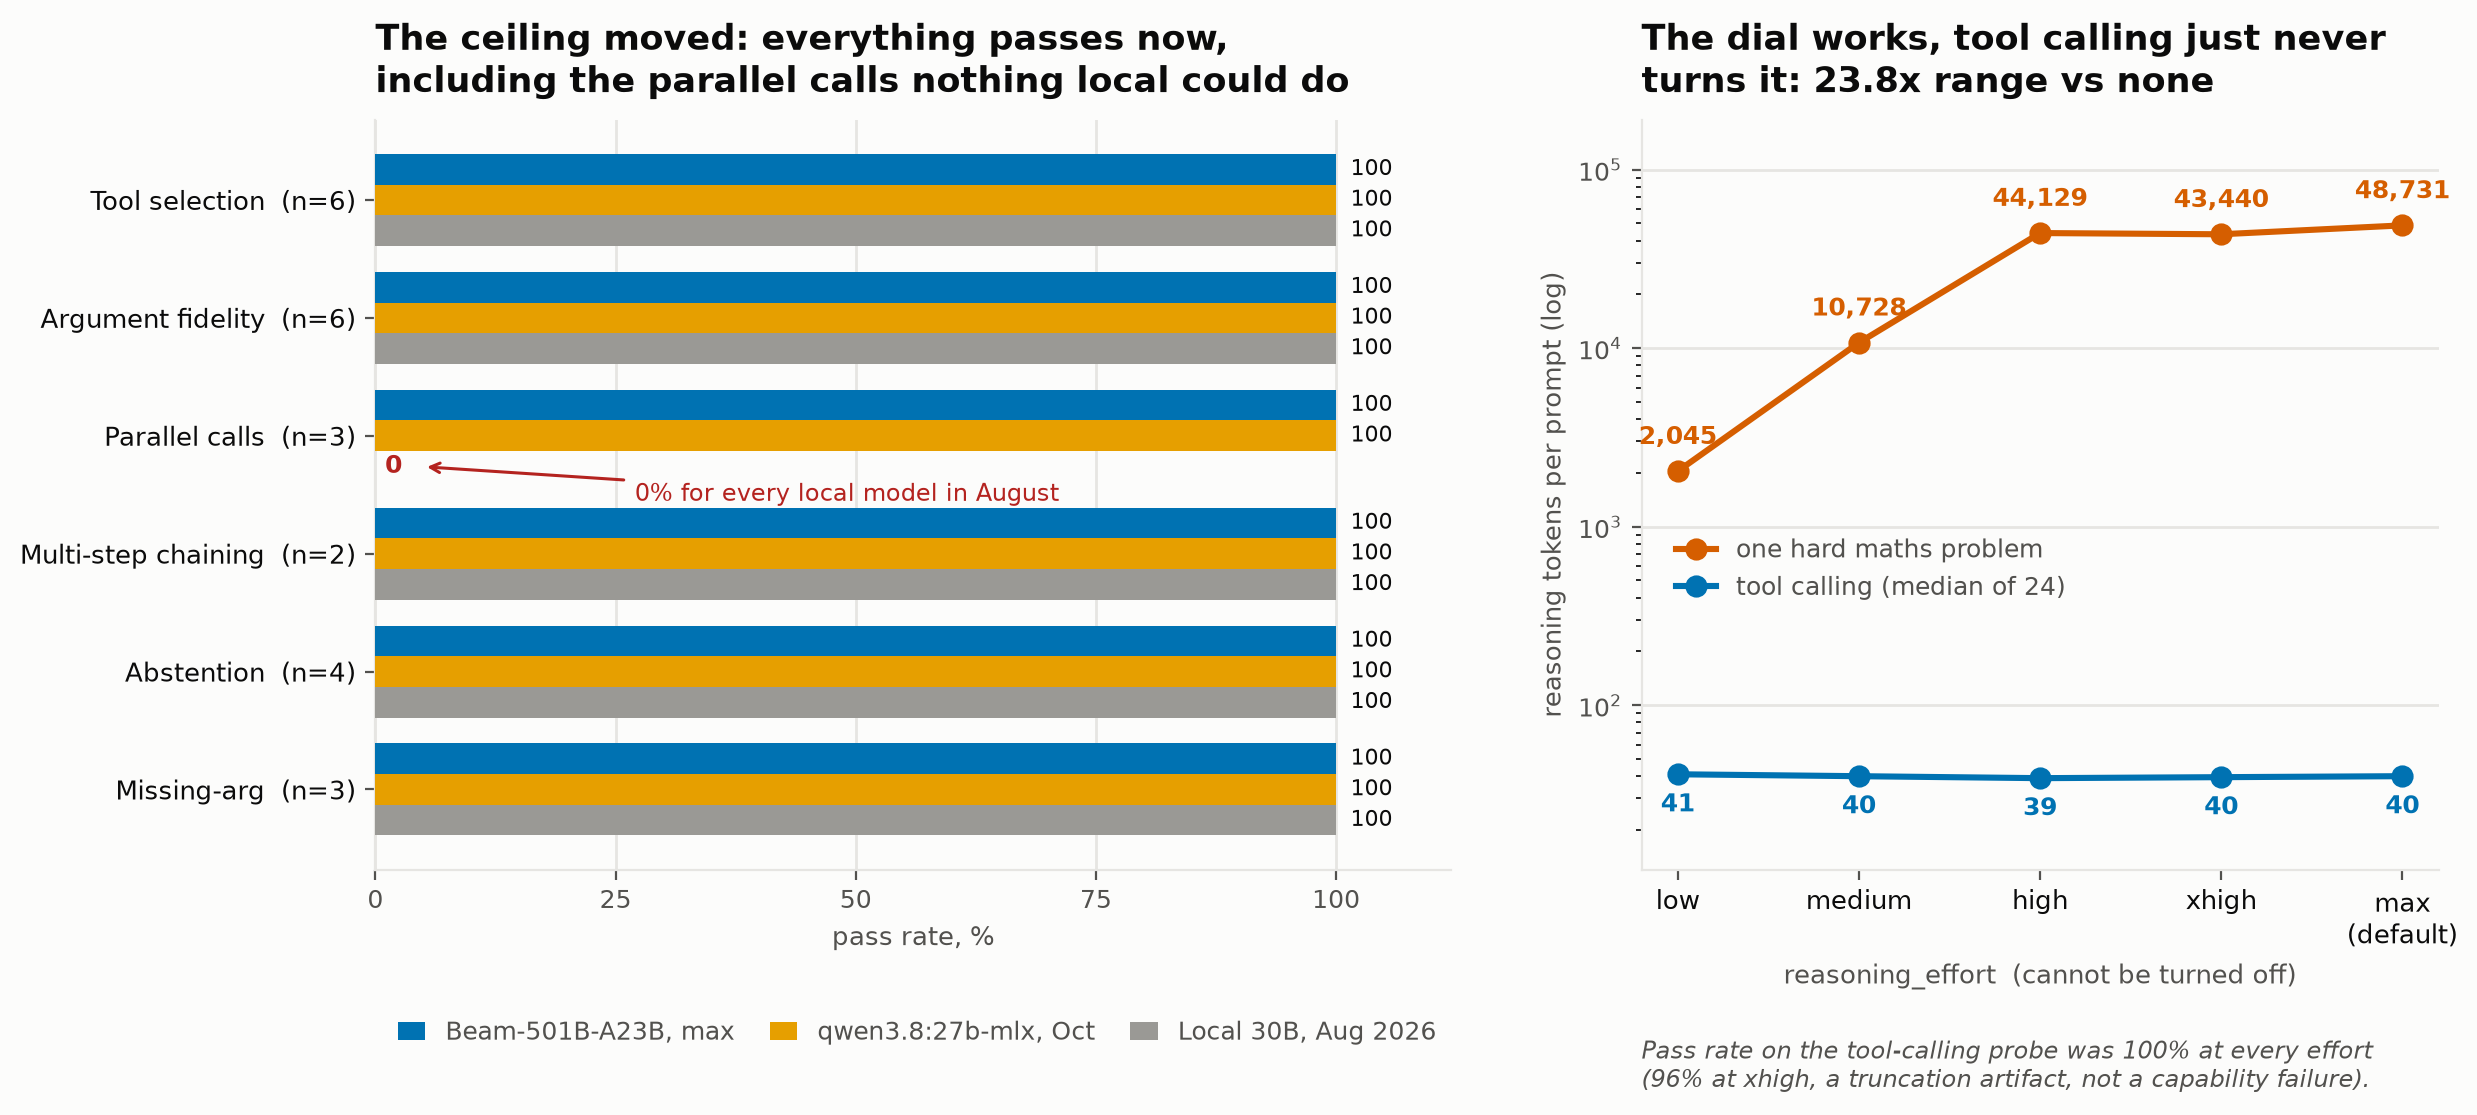
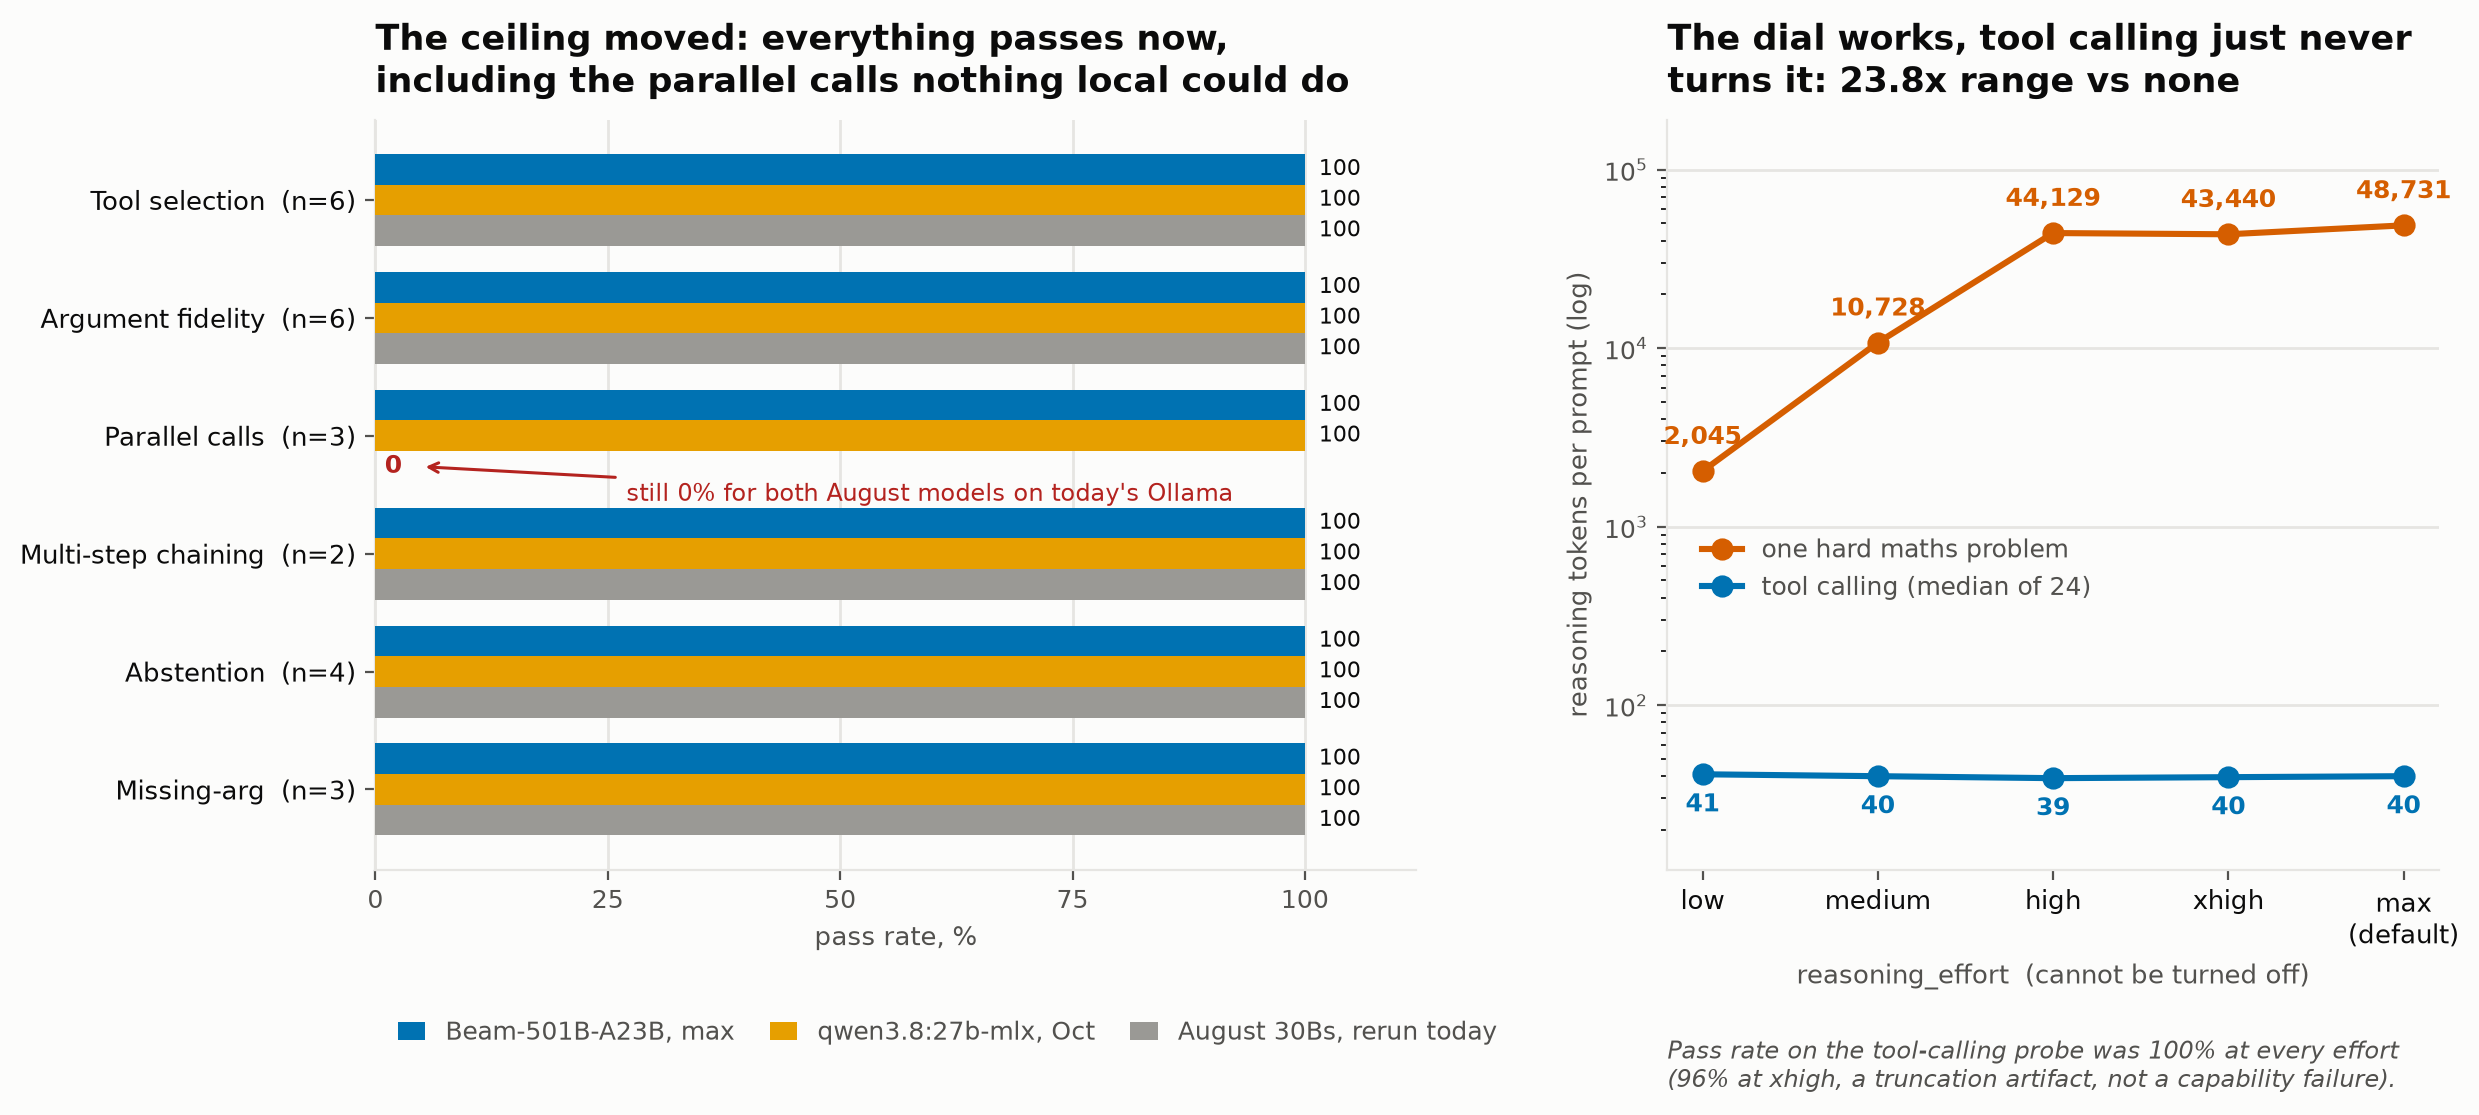
Rerun the August models on current Ollama to rule out a version confound
"The parallel-call ceiling is gone" compared qwen3.8 on Ollama 0.40.2
against the August models on 0.32.9, so better templates or tool parsing
could have produced the improvement. Reran nemotron-3.5-lightning and
muse-glimmer (same nvfp4 builds) through the same harness on 0.40.2.

With thinking on, both still score 0/3 on parallel calls while qwen3.8
scores 3/3 through the identical pipeline, so the ceiling is model-side.
muse-glimmer with thinking off now passes one parallel case (stable over
three reruns), which can't be attributed to Ollama versus the rebuilt
prompts; the post says so.

The chart's grey bars are now the rerun rather than quoted August numbers,
and the methods notes add the precision and tool-parser asymmetries that
favour the API arm.

Claude-Session: https://claude.ai/code/session_013ByiJugc862WAFDBENAA5q

diff --git a/src/content/experiments/beam-reasoning-effort.md b/src/content/experiments/beam-reasoning-effort.md
@@ -4,7 +4,7 @@ finding: "Reflection's Beam-501B-A23B makes reasoning mandatory and exposes five
 track: "local-probes"
 date: 2026-10-12
 chart: "beam-reasoning-effort-chart.png"
-chartAlt: "Two panels. Left, pass rate per category for three systems: the best local 30B from August 2026, qwen3.8:27b-mlx, and Beam-501B-A23B at max effort. Every bar is at 100 except the August local 30B on parallel calls, which is 0. Right, reasoning tokens per prompt on a log scale against Beam's five effort levels, two lines. The tool-calling line is flat at 41, 40, 39, 40, 40. The hard maths problem line climbs steeply from 2,045 at low to 10,728 at medium, then 44,129, 43,440 and 48,731 at high, xhigh and max."
+chartAlt: "Two panels. Left, pass rate per category for three systems: the two August 30B models rerun today with thinking on, qwen3.8:27b-mlx, and Beam-501B-A23B at max effort, all through the same harness. Every bar is at 100 except the August models on parallel calls, which are still 0. Right, reasoning tokens per prompt on a log scale against Beam's five effort levels, two lines. The tool-calling line is flat at 41, 40, 39, 40, 40. The hard maths problem line climbs steeply from 2,045 at low to 10,728 at medium, then 44,129, 43,440 and 48,731 at high, xhigh and max."
 tools: ["Beam-501B-A23B", "qwen3.8:27b-mlx", "Reflection API"]
 order: 52
 draft: false
@@ -82,9 +82,13 @@ Everything passes.
 | Beam, xhigh | 6/6 | 5/6\* | 3/3 | 2/2 | 4/4 | 3/3 | **23/24** |
 | Beam, max (default) | 6/6 | 6/6 | 3/3 | 2/2 | 4/4 | 3/3 | **24/24** |
 | qwen3.8:27b-mlx | 6/6 | 6/6 | 3/3 | 2/2 | 4/4 | 3/3 | **24/24** |
-| *nemotron, Aug, thinking on* | *6/6* | *6/6* | *0/3* | *2/2* | *4/4* | *3/3* | *21/24* |
+| *nemotron, rerun today, thinking on* | *6/6* | *6/6* | *0/3* | *2/2* | *4/4* | *3/3* | *21/24* |
+| *muse-glimmer, rerun today, thinking on* | *6/6* | *6/6* | *0/3* | *2/2* | *4/4* | *3/3* | *21/24* |
 
 \* A truncation artifact, not a miss. More on it below.
+
+The two italic rows are the August models, rerun today through this harness and
+this Ollama build. More on why below.
 
 The primary endpoint is a tie with zero discordant pairs. There is no pair to
 run a test on.
@@ -205,10 +209,12 @@ bug in my own grading code.
   anything.** It is saturated. A 501B frontier MoE and a 27B model on a laptop
   are indistinguishable on it. That is a statement about the probe, and about
   how fast the floor has risen, more than about either model.
-- **The parallel-call ceiling is gone.** In August it was the one thing nothing
-  local could do and I advised designing around it. Two months later a local
-  27B does four calls in one turn. If you built a sequential workaround, it is
-  probably dead weight now.
+- **The parallel-call ceiling is gone, if you change models.** In August it was
+  the one thing nothing local could do and I advised designing around it. A
+  current local 27B does four calls in one turn. The August models still cannot,
+  so the fix came from newer models, not from an Ollama update. If you built a
+  sequential workaround for an older model, check whether you still need the
+  model before you drop the workaround.
 - **Measure the dial on your own workload before trusting the default.** It is
   the difference between free and 23.8 times the reasoning tokens depending on
   what you ask. On tool-calling shaped work, Beam's `low` and `max` gave me the
@@ -232,9 +238,27 @@ bug in my own grading code.
 - **No reasoning-off arm exists.** Beam cannot disable reasoning, so the August
   on/off contrast is impossible to reproduce by construction, rather than
   something I chose to skip.
-- **The August bars are quoted from the published post**, not rerun. Those two
-  models are still on this laptop, but the comparison I care about is against
-  what I concluded then.
+- **The August models were rerun, not quoted.** Between August and now Ollama
+  went from 0.32.9 to 0.40.2, and its chat templates and tool-call parsing
+  changed along the way. So "the ceiling is gone" could have meant the software
+  got better, not the models. Both August models are still on this laptop as
+  the same `nvfp4` builds, so I ran them through this harness on 0.40.2. With
+  thinking on, both still score 0 of 3 on parallel calls, while qwen3.8 scores
+  3 of 3 through the identical pipeline. The ceiling sat in the models.
+  One honest wrinkle: with thinking off, muse-glimmer now passes the
+  Berlin and Rome case, stable across three reruns, where August had it at 0
+  of 3. I cannot tell whether that is the newer Ollama or the small
+  differences between my rebuilt prompts and the originals. The thinking-off
+  overall scores also moved (nemotron 75 percent against August's 54) for the
+  same reason, so I only compare the parallel row across the two dates.
+- **The API arm has advantages I cannot see or remove.** qwen3.8 runs as a
+  4-bit build. Reflection does not say what precision Beam is served at, and
+  it is very likely higher. Each side also parses tool calls with its own
+  code, Ollama's chat template on one and Reflection's parser on the other,
+  and my grader only sees the result. A lenient parser can rescue a malformed
+  call that a strict one drops. Every case passed on both sides, so none of
+  this decided anything here, but every one of these favours Beam. A local
+  model that ties a served model under those conditions has not been flattered.
 - **One sample per prompt** on the graded probe, justified by the determinism
   check above and qualified by the one runaway. That check covered Beam only;
   I did not repeat it for the local arm. The hard-problem control was run
